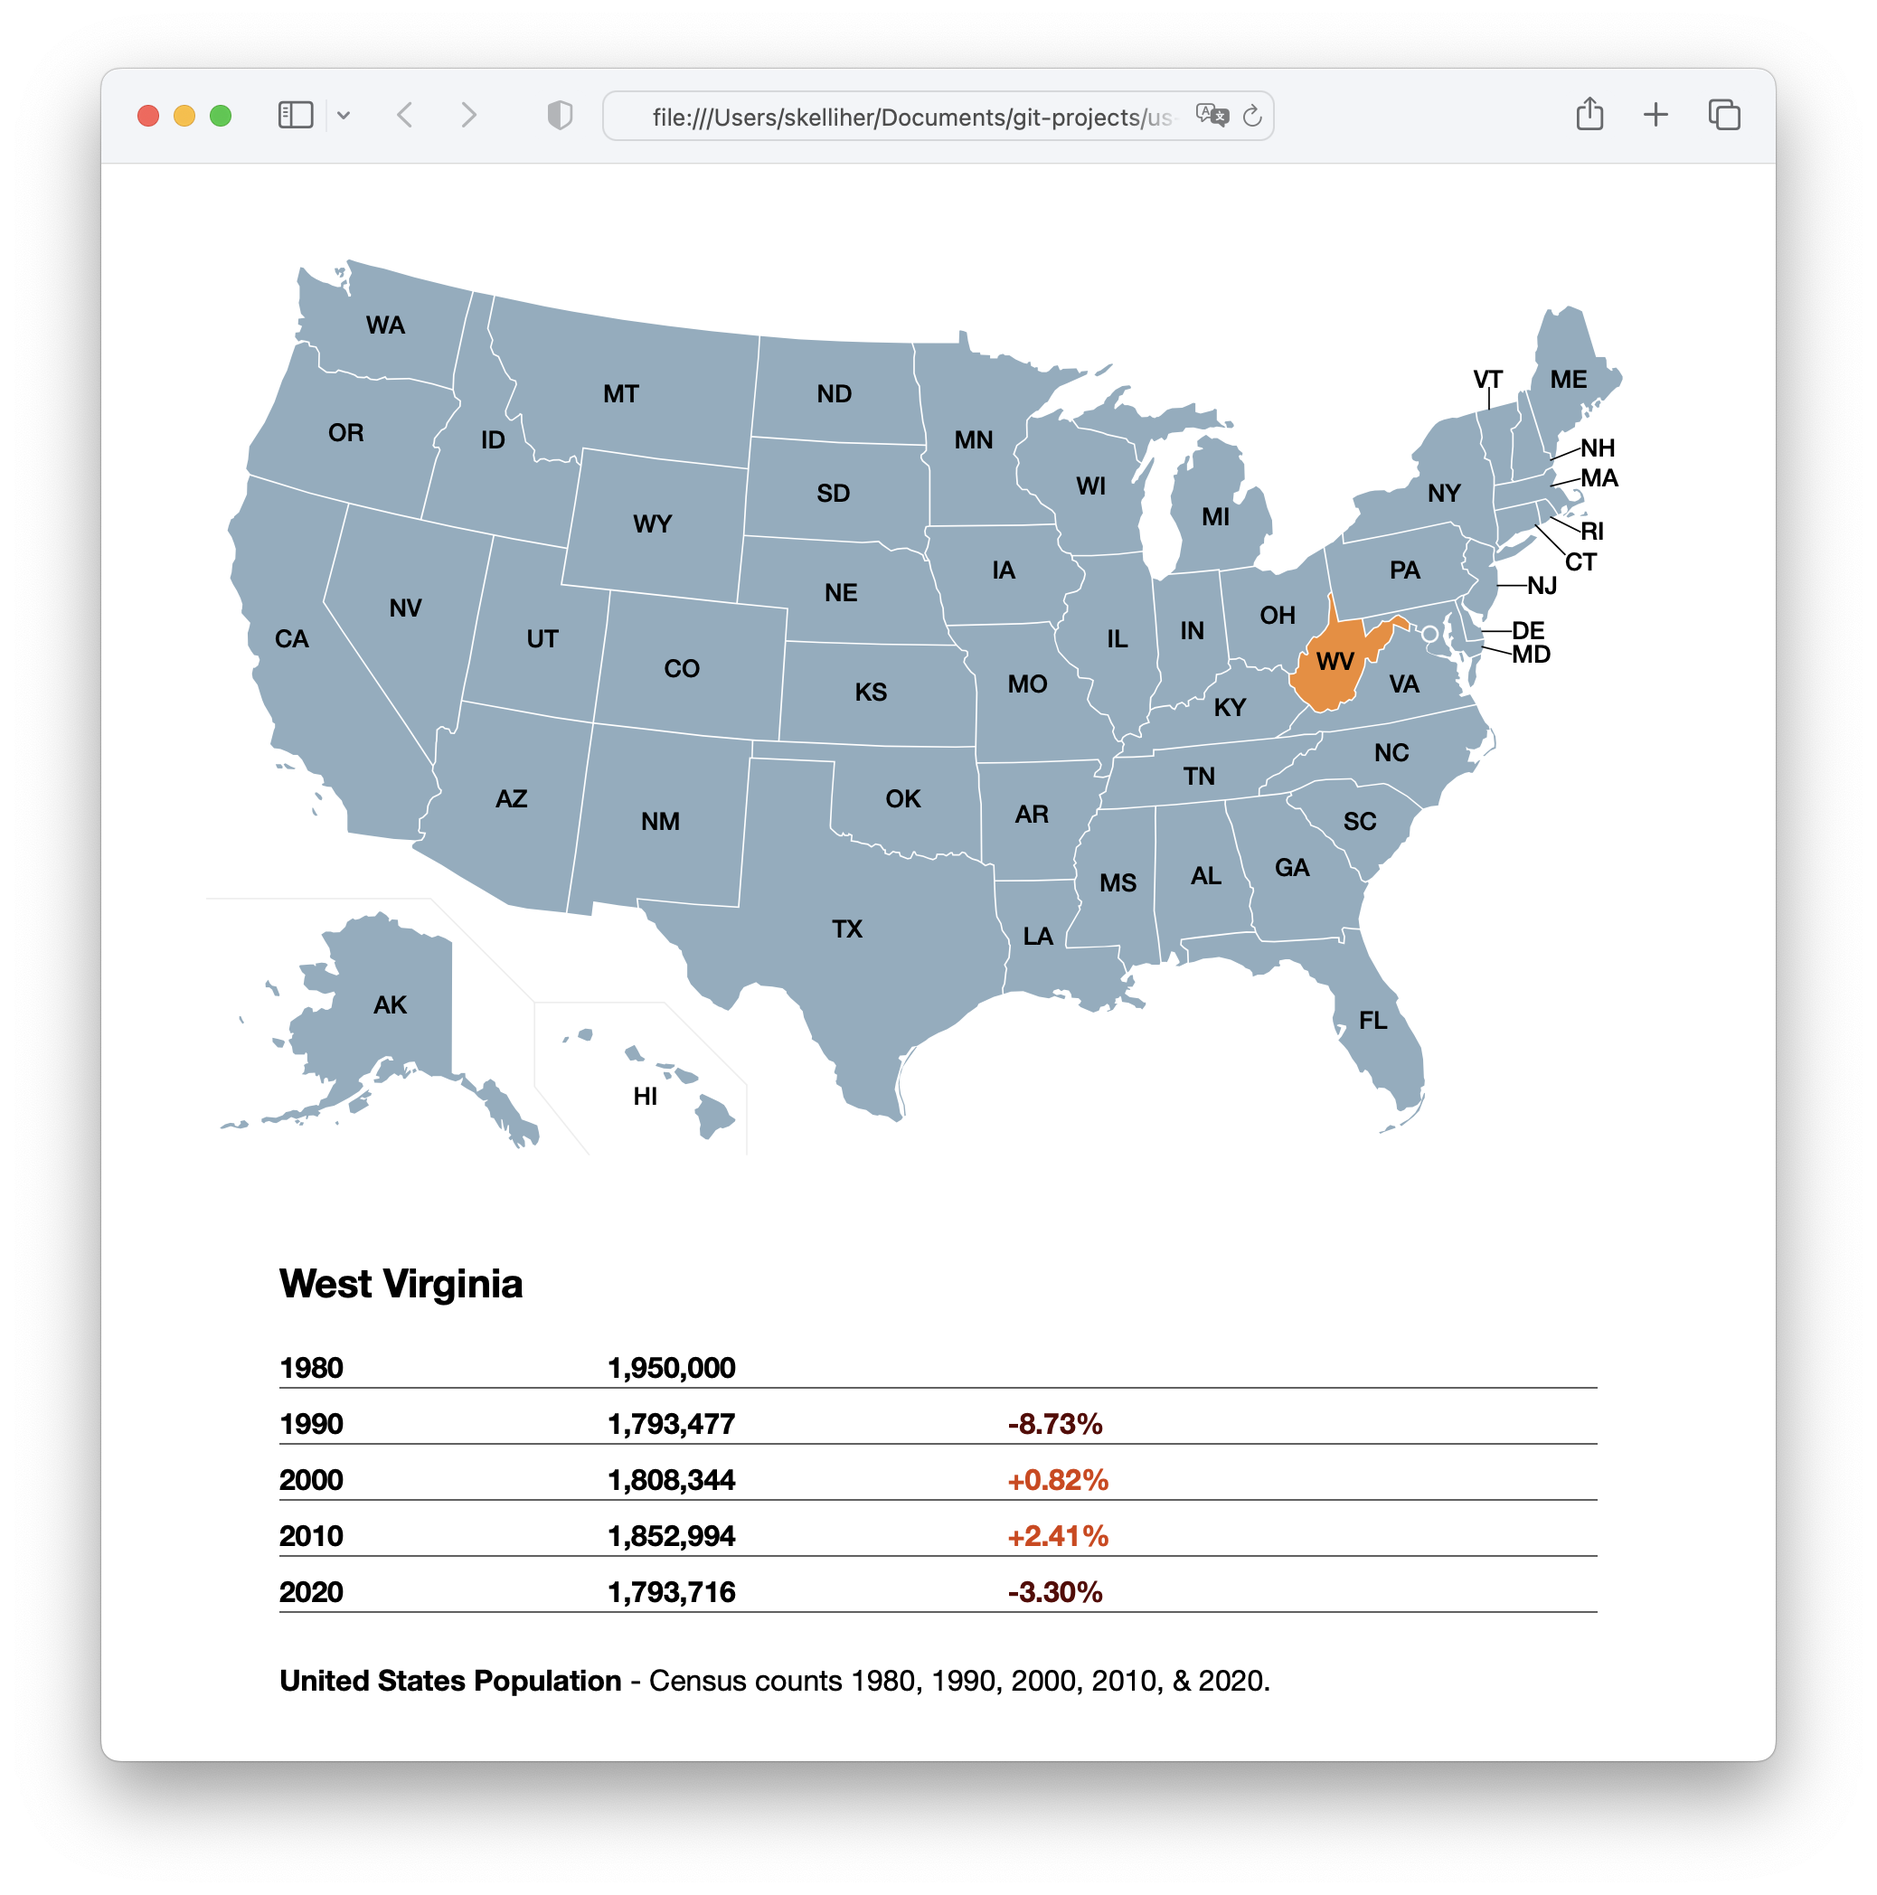
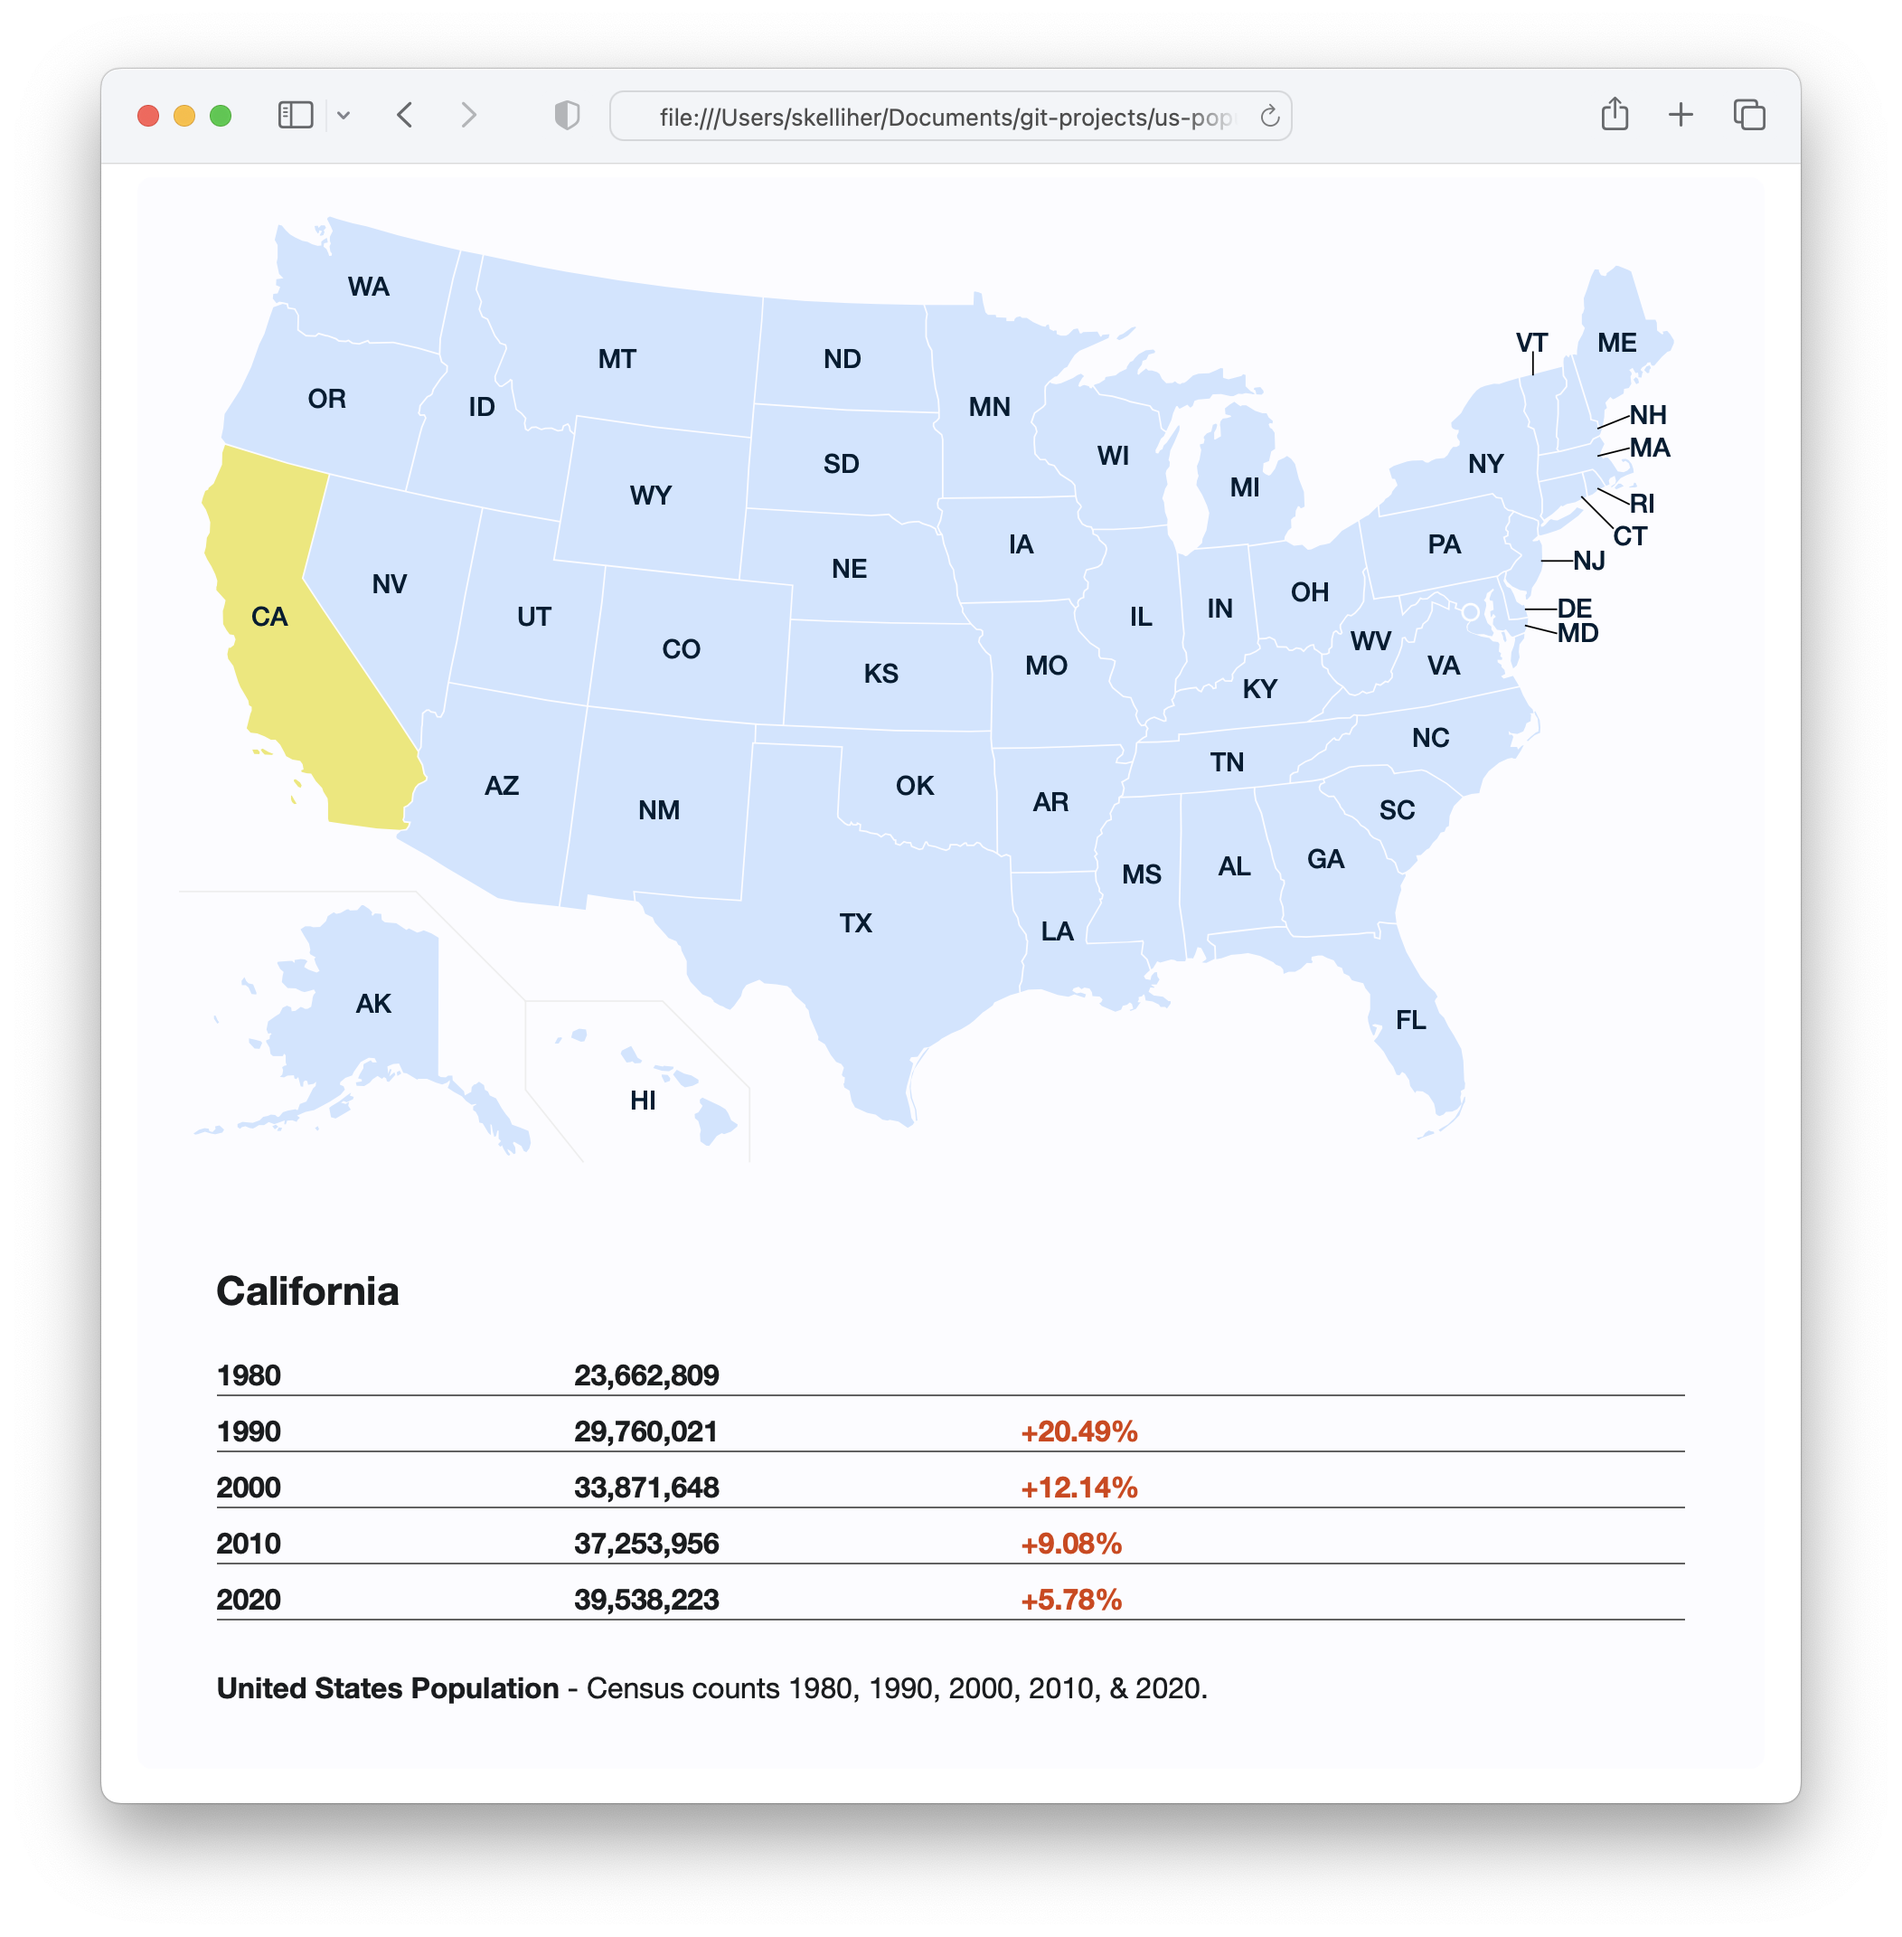
Redo screen shot after changing colors. Modify screen shot description on Read Me.

diff --git a/README.md b/README.md
@@ -5,7 +5,7 @@ Map of US that displays state population in 1980, 1990, 2000, 2010, and 2020. [V
 
 ## Project Screen Shots
 
-* View - with West Virginia selected.
+* View with California selected.
 ![screen shot of project](/screenshots/us-population-by-state-screenshot1.png?s=600)
 
 ## Installation and Setup Instructions
